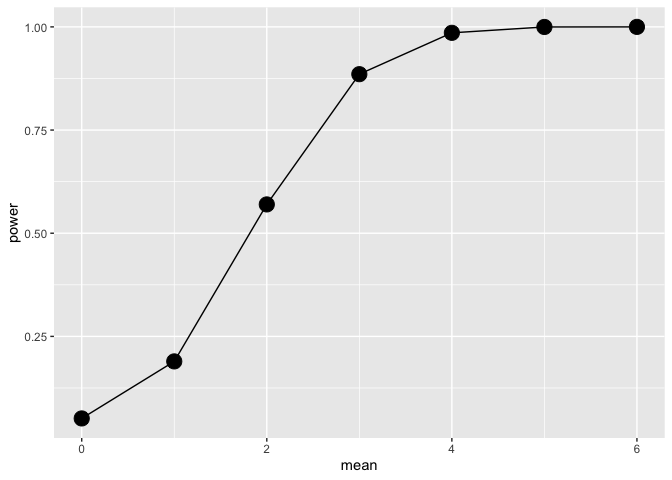
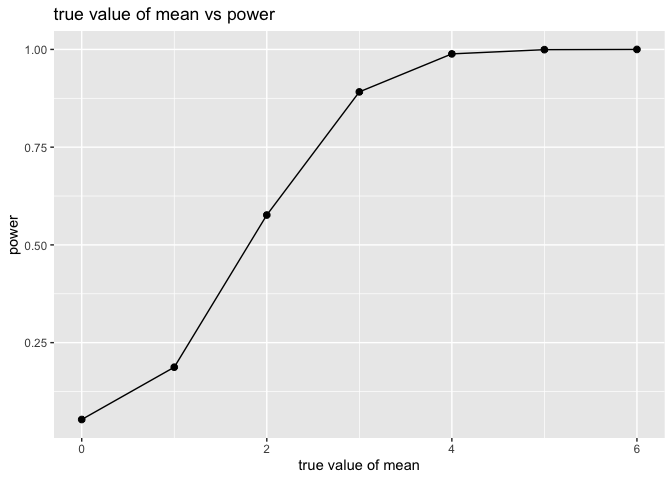
finished plots and explanations for question 2

diff --git a/p8105_hw5_mt3866.md b/p8105_hw5_mt3866.md
@@ -95,16 +95,62 @@ power_res = sim_results |>
   summarize(power = mean(p.value < 0.05))
 ```
 
-Create plot
+Create plot of power and mean
 
 ``` r
 ggplot(power_res, aes(x = mu, y = power)) +
-  geom_point(size = 5) +
+  geom_point(size = 2) +
   geom_line() +
   labs(
-    x = "mean",
-    y = "power"
+    x = "true value of mean",
+    y = "power",
+    title = "true value of mean vs power"
   )
 ```
 
-![](p8105_hw5_mt3866_files/figure-gfm/unnamed-chunk-5-1.png)<!-- -->
+![](p8105_hw5_mt3866_files/figure-gfm/unnamed-chunk-5-1.png)<!-- --> As
+we can see in the plot, power increases as the true mean of the sample
+increases. With a larger effect size, it’s easier to detect differences
+which increases the power as the significance of our results will
+increase.
+
+Plot average mean vs true value, overlay another plot
+
+``` r
+mu_summary = sim_results |>
+  group_by(mu) |>
+  summarize(
+    avg_mu_hat = mean(mu_hat),
+    avg_rejected_mu_hat = mean(mu_hat[p.value < 0.05])
+  )
+
+mu_summary_long = mu_summary |>
+  pivot_longer(
+    cols = c(avg_mu_hat, avg_rejected_mu_hat),
+    names_to = "type",
+    values_to = "average_mu_hat"
+  )
+
+ggplot(mu_summary_long, aes(x = mu, y = average_mu_hat, color = type)) +
+  geom_point(size = 2) +
+  geom_line() +
+  scale_color_manual(
+    values = c("avg_mu_hat" = "blue", "avg_rejected_mu_hat" = "red"),
+    labels = c("All samples", "Rejected H0")
+  ) +
+  labs(
+    x = "true mu",
+    y = "average estimated mu",
+    color = "sample type",
+    title = "average estimate of mu hat versus true mu"
+  ) +
+  theme_minimal()
+```
+
+![](p8105_hw5_mt3866_files/figure-gfm/unnamed-chunk-6-1.png)<!-- --> The
+sample average mean for tests where the null is rejected is
+approximately the same generally, however is a bit higher for lower
+sample averages. The reason for this is because when the mu is small,
+only the more extreme values will get rejected and this brings selection
+bias, so the rejected null line is biased upwards in the beginning of
+the plot in comparison to the all samples line.
